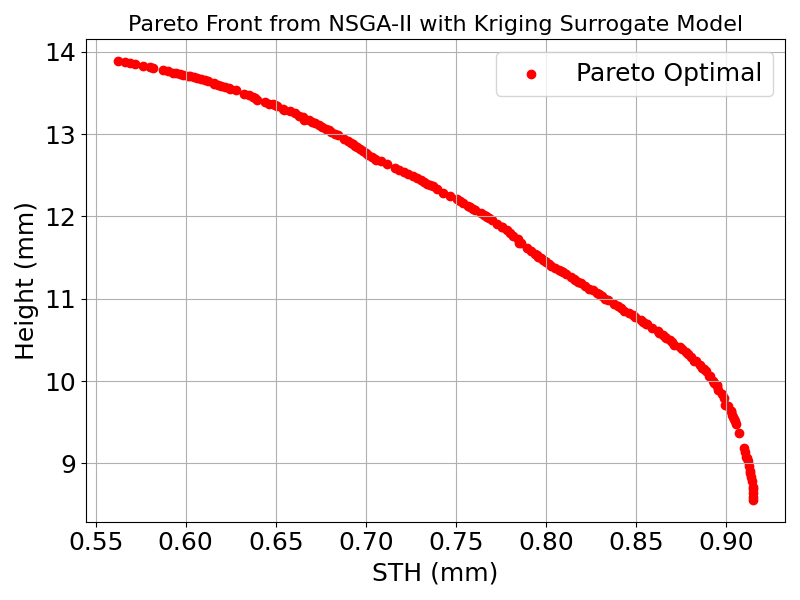
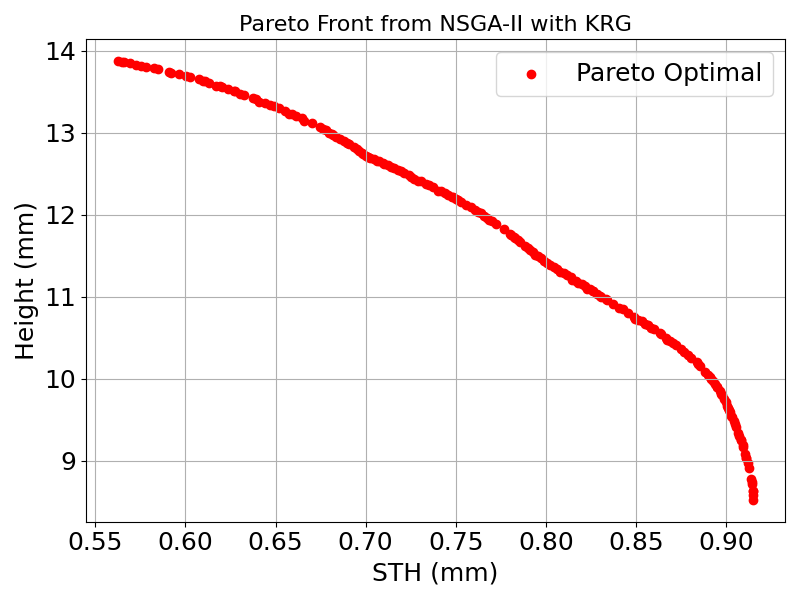
Update project with surrogate Pareto optimization and README

diff --git a/surrogate_nsga2_krg_loocv.py b/surrogate_nsga2_krg_loocv.py
@@ -2,7 +2,6 @@ import os
 import pandas as pd
 import numpy as np
 from smt.surrogate_models import KRG
-from smt.sampling_methods import LHS
 from sklearn.preprocessing import MinMaxScaler
 from sklearn.metrics import mean_squared_error
 import matplotlib.pyplot as plt
@@ -15,173 +14,154 @@ from pymoo.termination import get_termination
 from pymoo.core.problem import Problem
 from pymoo.optimize import minimize
 
-# Ensure output directory exists
+# --- 1. Thiết lập thư mục đầu ra
 os.makedirs("Figure", exist_ok=True)
 
-# Đọc dữ liệu
-file_path = "lhs_samples_saved.xlsx"
-df = pd.read_excel(file_path)
-X = df[['X1', 'X2', 'X3']].values
-Y = df[['STH', 'Height']].values
+# --- 2. Đọc dữ liệu gốc
+df = pd.read_excel("lhs_samples_saved.xlsx")
+X_raw = df[['X1','X2','X3']].values   # mm, –, MPa
+Y       = df[['STH','Height']].values # mm, mm
 
-# Chuẩn hóa output
-scaler_sth = MinMaxScaler()
-scaler_height = MinMaxScaler()
+# --- 3. Chuẩn hóa X về [0,1] và Y về [0,1]
+x_scaler = MinMaxScaler()
+X_scaled = x_scaler.fit_transform(X_raw)
 
-Y_sth_scaled = scaler_sth.fit_transform(Y[:, 0].reshape(-1, 1)).flatten()
-Y_height_scaled = scaler_height.fit_transform(Y[:, 1].reshape(-1, 1)).flatten()
+y1_scaler = MinMaxScaler()
+y2_scaler = MinMaxScaler()
+Y1_scaled = y1_scaler.fit_transform(Y[:,0].reshape(-1,1)).flatten()
+Y2_scaled = y2_scaler.fit_transform(Y[:,1].reshape(-1,1)).flatten()
 
-# Hàm tính LOOCV error with theta0
-def compute_loocv_errors(X, Y_scaled, scaler, model_type=KRG):
-    n_samples = len(X)
-    errors = np.zeros(n_samples)
-    
-    for i in range(n_samples):
-        # Tạo tập train và test
-        train_indices = np.arange(n_samples) != i
-        X_train, Y_train = X[train_indices], Y_scaled[train_indices]
-        X_test, Y_test = X[i].reshape(1, -1), Y_scaled[i].reshape(1, -1)
+# --- 4. Hàm tính LOOCV error trên X_scaled
+def compute_loocv_errors(X, Y_scaled, y_scaler):
+    n = len(X)
+    errs = np.zeros(n)
+    for i in range(n):
+        # chia train/test
+        mask = np.arange(n) != i
+        X_tr, X_te = X[mask], X[i].reshape(1, -1)
+        Y_tr, Y_te = Y_scaled[mask], Y_scaled[i].reshape(1, -1)
 
-        # Khởi tạo model với theta0
-        model = model_type(print_global=False, theta0=[1e-2]*X.shape[1])
-        model.set_training_values(X_train, Y_train)
+        # huấn luyện model với theta0
+        model = KRG(print_global=False, theta0=[1e-2]*X.shape[1])
+        model.set_training_values(X_tr, Y_tr)
         model.train()
 
-        Y_pred_scaled = model.predict_values(X_test).flatten()
-        Y_pred_actual = scaler.inverse_transform(Y_pred_scaled.reshape(-1, 1)).flatten()
-        Y_test_actual = scaler.inverse_transform(Y_test).flatten()
+        # dự đoán và tính RMSE trên giá trị gốc
+        y_pred_s = model.predict_values(X_te).flatten()
+        y_pred   = y_scaler.inverse_transform(y_pred_s.reshape(-1,1)).flatten()
+        y_true   = y_scaler.inverse_transform(Y_te).flatten()
+        errs[i]  = np.sqrt(mean_squared_error(y_true, y_pred))
+    return errs
 
-        errors[i] = np.sqrt(mean_squared_error(Y_test_actual, Y_pred_actual))
-    return errors
+# Tính và vẽ LOOCV
+err_loocv_1 = compute_loocv_errors(X_scaled, Y1_scaled, y1_scaler)
+err_loocv_2 = compute_loocv_errors(X_scaled, Y2_scaled, y2_scaler)
 
-# Tính lỗi LOOCV
-sth_loocv_errors = compute_loocv_errors(X, Y_sth_scaled, scaler_sth)
-height_loocv_errors = compute_loocv_errors(X, Y_height_scaled, scaler_height)
-
-# Vẽ đồ thị lỗi LOOCV
-plt.figure(figsize=(8, 6))
-plt.plot(range(1, len(sth_loocv_errors) + 1), sth_loocv_errors, label='STH LOOCV RMSE', color='blue')
-plt.plot(range(1, len(height_loocv_errors) + 1), height_loocv_errors, label='Height LOOCV RMSE', color='red')
+plt.figure(figsize=(8,6))
+plt.plot(err_loocv_1, label='STH LOOCV RMSE', color='blue')
+plt.plot(err_loocv_2, label='Height LOOCV RMSE', color='red')
 plt.xlabel('Sample Index', fontsize=18)
-plt.ylabel('LOOCV RMSE', fontsize=18)
-plt.title('LOOCV Training Errors for KRG Surrogate Models', fontsize=18)
-plt.tick_params(axis='both', labelsize=18)
-plt.grid(True)
+plt.ylabel('LOOCV RMSE (mm)', fontsize=18)
+plt.title('LOOCV Training Errors for KRG Surrogates', fontsize=16)
+plt.xticks(fontsize=18)
+plt.yticks(fontsize=18)
 plt.legend(fontsize=18)
+plt.grid(True)
 plt.tight_layout()
 plt.savefig('Figure/krg_loocv_errors.png')
 plt.close()
 
-# Huấn luyện mô hình trên toàn bộ tập dữ liệu với theta0
-model_sth = KRG(print_global=False, theta0=[1e-2]*X.shape[1])
-model_sth.set_training_values(X, Y_sth_scaled)
-model_sth.train()
+# --- 5. Huấn luyện KRG trên toàn bộ dữ liệu
+model1 = KRG(print_global=False, theta0=[1e-2]*3)
+model2 = KRG(print_global=False, theta0=[1e-2]*3)
+model1.set_training_values(X_scaled, Y1_scaled); model1.train()
+model2.set_training_values(X_scaled, Y2_scaled); model2.train()
 
-model_height = KRG(print_global=False, theta0=[1e-2]*X.shape[1])
-model_height.set_training_values(X, Y_height_scaled)
-model_height.train()
-
-# Định nghĩa bài toán tối ưu
+# --- 6. Định nghĩa bài toán NSGA-II trên [0,1]^3
 class SurrogateProblem(Problem):
     def __init__(self):
-        super().__init__(n_var=3, n_obj=2, n_constr=0, xl=np.array([10, 0.3, 40]), xu=np.array([15, 0.9, 60]))
-
+        super().__init__(n_var=3, n_obj=2, n_constr=0, xl=np.zeros(3), xu=np.ones(3))
     def _evaluate(self, X, out, *args, **kwargs):
-        sth_pred_scaled = model_sth.predict_values(X).flatten()
-        height_pred_scaled = model_height.predict_values(X).flatten()
+        y1_s = model1.predict_values(X).flatten()
+        y2_s = model2.predict_values(X).flatten()
+        y1   = y1_scaler.inverse_transform(y1_s.reshape(-1,1)).flatten()
+        y2   = y2_scaler.inverse_transform(y2_s.reshape(-1,1)).flatten()
+        out["F"] = -np.column_stack([y1, y2])
 
-        sth_pred = scaler_sth.inverse_transform(sth_pred_scaled.reshape(-1, 1)).flatten()
-        height_pred = scaler_height.inverse_transform(height_pred_scaled.reshape(-1, 1)).flatten()
-
-        out["F"] = -np.column_stack([sth_pred, height_pred])
-
-# Cấu hình thuật toán NSGA-II
-algorithm = NSGA2(
+algo = NSGA2(
     pop_size=200,
     sampling=FloatRandomSampling(),
     crossover=SBX(prob=0.9, eta=15),
     mutation=PM(eta=20),
-    eliminate_duplicates=True,
+    eliminate_duplicates=True
 )
+term = get_termination("n_gen", 200)
 
-termination = get_termination("n_gen", 200)
-
-# Thực hiện tối ưu hóa
 res = minimize(
-    SurrogateProblem(),
-    algorithm,
-    termination,
-    seed=42,
-    save_history=True,
-    verbose=True,
+    SurrogateProblem(), algo, term,
+    seed=42, save_history=True, verbose=False
 )
 
-# Phục hồi giá trị thực từ kết quả tối ưu
-F_actual = -res.F
-plt.figure(figsize=(8, 6))
-plt.scatter(F_actual[:, 0], F_actual[:, 1], c='red', label='Pareto Optimal')
-plt.xlabel("STH (mm)", fontsize=18)
-plt.ylabel("Height (mm)", fontsize=18)
-plt.title("Pareto Front from NSGA-II with Kriging Surrogate Model", fontsize=16)
-plt.tick_params(axis='both', labelsize=18)
+# --- 7. Vẽ Pareto front
+Pareto = -res.F  # [STH, Height]
+plt.figure(figsize=(8,6))
+plt.scatter(Pareto[:,0], Pareto[:,1], c='red', label='Pareto Optimal')
+plt.xlabel('STH (mm)', fontsize=18)
+plt.ylabel('Height (mm)', fontsize=18)
+plt.title('Pareto Front from NSGA-II with KRG', fontsize=16)
+plt.xticks(fontsize=18)
+plt.yticks(fontsize=18)
 plt.legend(fontsize=18)
 plt.grid(True)
 plt.tight_layout()
-plt.savefig("Figure/pareto_front.png")
+plt.savefig('Figure/pareto_front.png')
 plt.close()
 
-# Xuất dữ liệu đầu ra tối ưu
-X_optimal = res.X
-STH_scaled = model_sth.predict_values(X_optimal).flatten()
-Height_scaled = model_height.predict_values(X_optimal).flatten()
-STH_optimal = scaler_sth.inverse_transform(STH_scaled.reshape(-1, 1)).flatten()
-Height_optimal = scaler_height.inverse_transform(Height_scaled.reshape(-1, 1)).flatten()
+# --- 8. Xuất bảng Pareto với X1–X3 về giá trị gốc
+Xp_scaled = res.X
+Xp_orig   = x_scaler.inverse_transform(Xp_scaled)
+df_pareto = pd.DataFrame(Xp_orig, columns=['X1','X2','X3'])
+df_pareto['STH (mm)']    = Pareto[:,0]
+df_pareto['Height (mm)'] = Pareto[:,1]
+df_pareto.to_excel("pareto_optimal_nsga2_krg.xlsx", index=False)
 
-df_optimal = pd.DataFrame(X_optimal, columns=["X1", "X2", "X3"])
-df_optimal["STH (mm)"] = STH_optimal
-df_optimal["Height (mm)"] = Height_optimal
-df_optimal.to_excel("pareto_optimal_nsga2_krg.xlsx", index=False)
-print("Pareto optimal results have been saved to 'pareto_optimal_nsga2_krg.xlsx'")
+# --- 9. Tính sensitivity trên thang normalize [0,1] và vẽ
+def compute_sensitivity_norm(model, X, y_scaler):
+    N, d = X.shape
+    S = np.zeros((N,d))
+    delta = 0.01  # 1% step
+    for i in range(N):
+        x0 = X[i].reshape(1,-1)
+        for j in range(d):
+            xp = x0.copy(); xp[0,j] += delta
+            y0_s = model.predict_values(x0).flatten()
+            yp_s = model.predict_values(xp).flatten()
+            # trích scalar
+            y0 = y_scaler.inverse_transform(y0_s.reshape(-1,1)).flatten()[0]
+            yp = y_scaler.inverse_transform(yp_s.reshape(-1,1)).flatten()[0]
+            S[i,j] = abs((yp - y0)/delta)
+    return S.mean(axis=0)
 
-# Thêm phân tích độ nhạy (Sensitivity Analysis)
-def compute_sensitivity(model, X, scaler, output_name):
-    n_samples = X.shape[0]
-    sensitivities = np.zeros((n_samples, X.shape[1]))
-    
-    for i in range(n_samples):
-        X_perturb = X[i].reshape(1, -1)
-        for j in range(X.shape[1]):
-            X_perturb_delta = X_perturb.copy()
-            delta = 0.01 * (X[:, j].max() - X[:, j].min())  # Nhỏ perturbation
-            X_perturb_delta[0, j] += delta
-            Y_base = model.predict_values(X_perturb).flatten()
-            Y_perturb = model.predict_values(X_perturb_delta).flatten()
-            Y_base_actual = scaler.inverse_transform(Y_base.reshape(-1, 1)).flatten()
-            Y_perturb_actual = scaler.inverse_transform(Y_perturb.reshape(-1, 1)).flatten()
-            sensitivities[i, j] = np.abs((Y_perturb_actual - Y_base_actual) / delta)
-    
-    return np.mean(sensitivities, axis=0)
+sens1 = compute_sensitivity_norm(model1, X_scaled, y1_scaler)
+sens2 = compute_sensitivity_norm(model2, X_scaled, y2_scaler)
 
-# Tính độ nhạy cho STH và Height
-sensitivity_sth = compute_sensitivity(model_sth, X, scaler_sth, "STH")
-sensitivity_height = compute_sensitivity(model_height, X, scaler_height, "Height")
-
-# Vẽ đồ thị độ nhạy
-params = ['X1', 'X2', 'X3']
-plt.figure(figsize=(10, 6))
-plt.bar(np.arange(len(params)) - 0.2, sensitivity_sth, 0.4, label='STH Sensitivity', color='blue')
-plt.bar(np.arange(len(params)) + 0.2, sensitivity_height, 0.4, label='Height Sensitivity', color='red')
+# Vẽ biểu đồ độ nhạy
+params = ['X1','X2','X3']
+x = np.arange(len(params))
+plt.figure(figsize=(8,6))
+plt.bar(x-0.2, sens1, 0.4, label='STH Sensitivity')
+plt.bar(x+0.2, sens2, 0.4, label='Height Sensitivity')
 plt.xlabel('Parameters', fontsize=18)
-plt.ylabel('Average Sensitivity (mm/unit)', fontsize=18)
-plt.title('Sensitivity Analysis of Parameters on STH and Height', fontsize=18)
-plt.xticks(np.arange(len(params)), params, fontsize=18)
-plt.tick_params(axis='both', labelsize=18)
+plt.ylabel('ΔY per 1% ΔX_scaled', fontsize=18)
+plt.title('Normalized Sensitivity Analysis', fontsize=16)
+plt.xticks(x, params, fontsize=18)
+plt.yticks(fontsize=18)
 plt.legend(fontsize=18)
 plt.grid(True)
 plt.tight_layout()
 plt.savefig('Figure/sensitivity_analysis.png')
 plt.close()
 
-print(f"Sensitivity Analysis Results:")
-print(f"STH Sensitivity: X1={sensitivity_sth[0]:.4f}, X2={sensitivity_sth[1]:.4f}, X3={sensitivity_sth[2]:.4f}")
-print(f"Height Sensitivity: X1={sensitivity_height[0]:.4f}, X2={sensitivity_height[1]:.4f}, X3={sensitivity_height[2]:.4f}")
+print("Normalized sensitivity (per 1% change in X_scaled):")
+print(f"STH:   X1={sens1[0]:.4f}, X2={sens1[1]:.4f}, X3={sens1[2]:.4f}")
+print(f"Height:X1={sens2[0]:.4f}, X2={sens2[1]:.4f}, X3={sens2[2]:.4f}")
